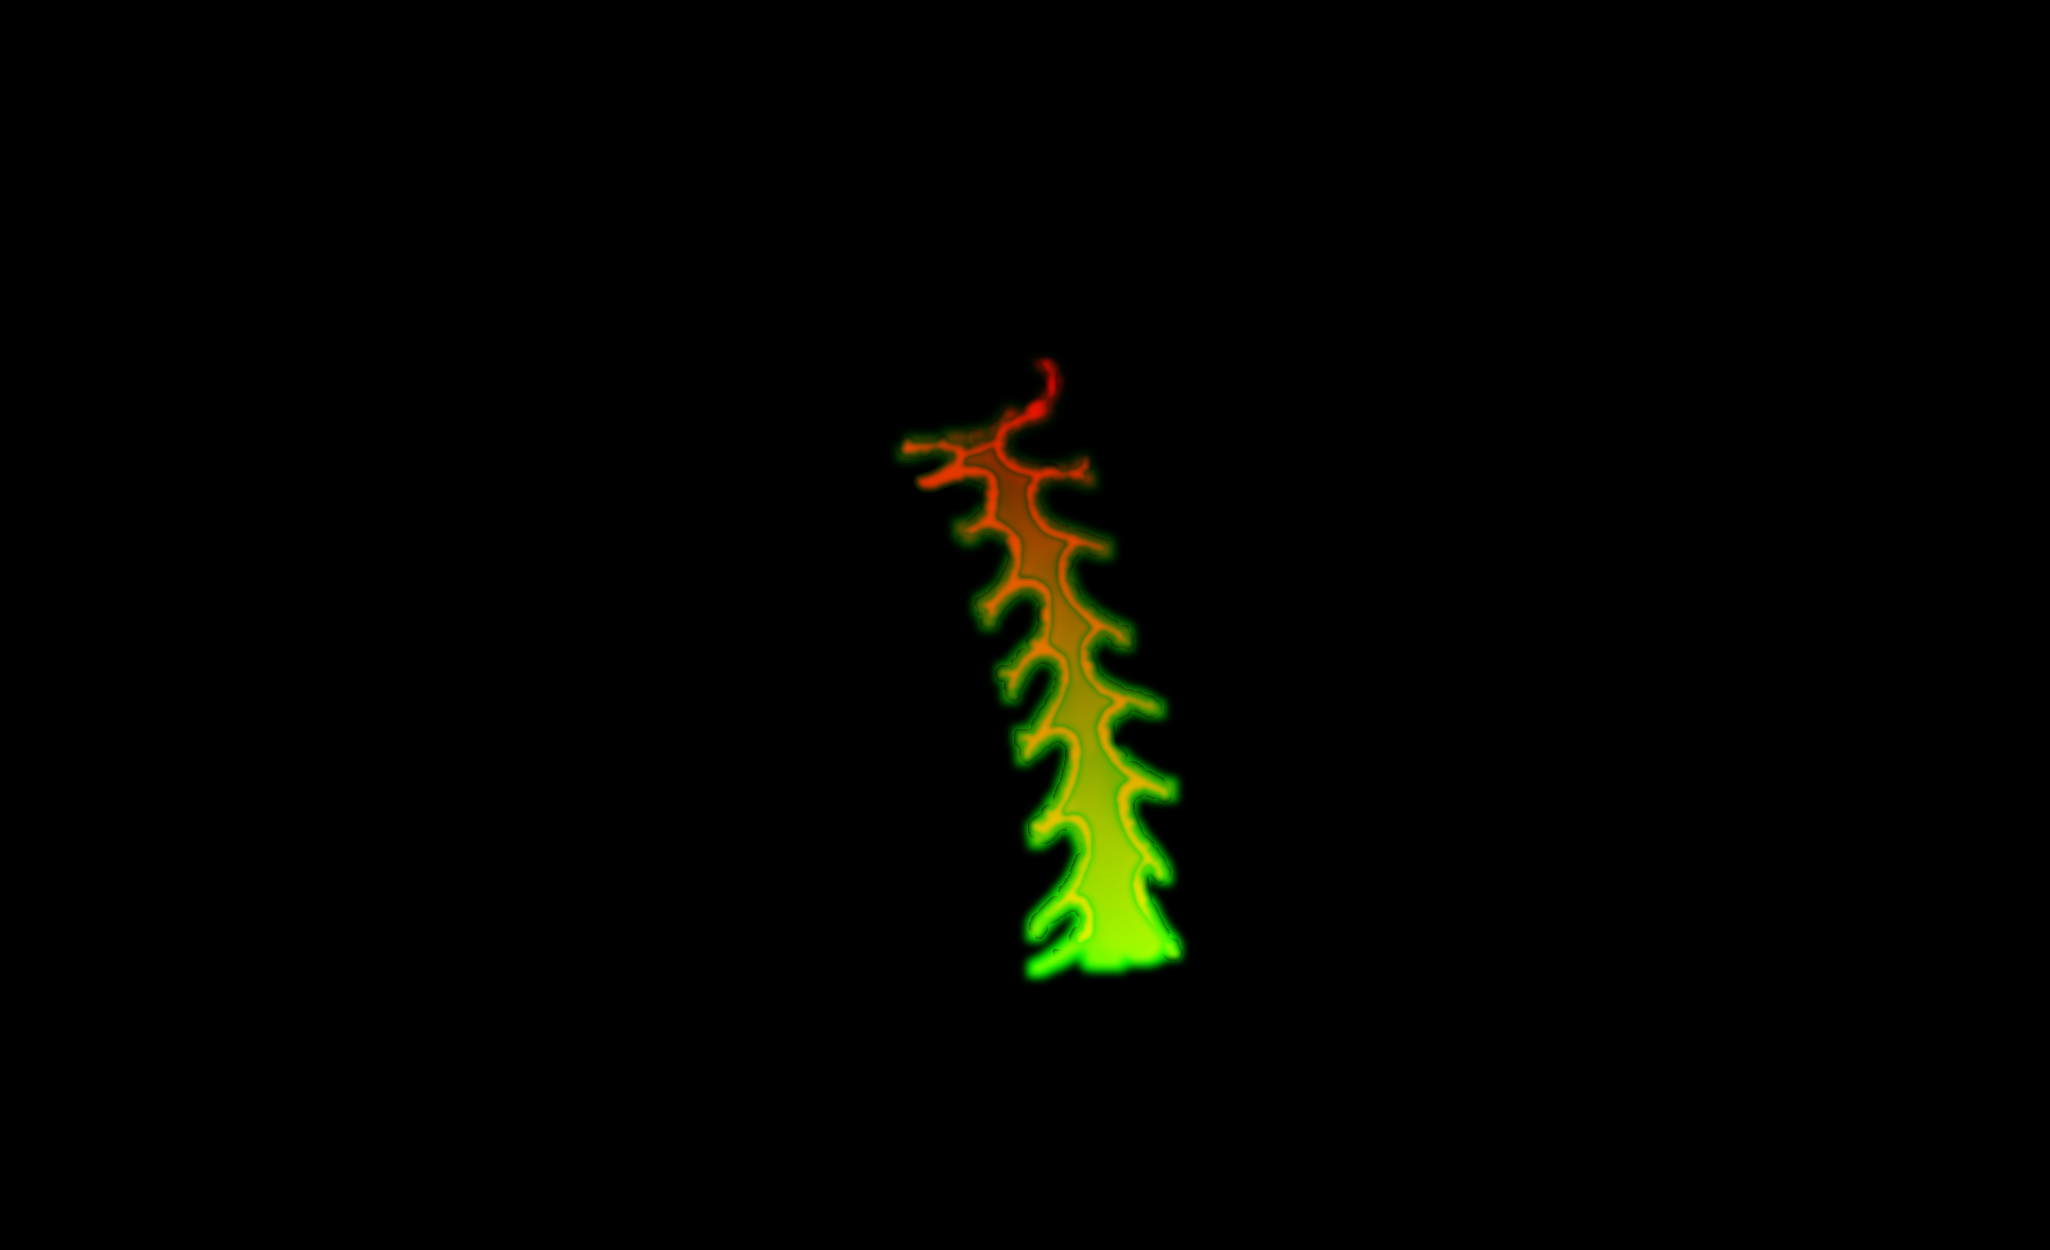
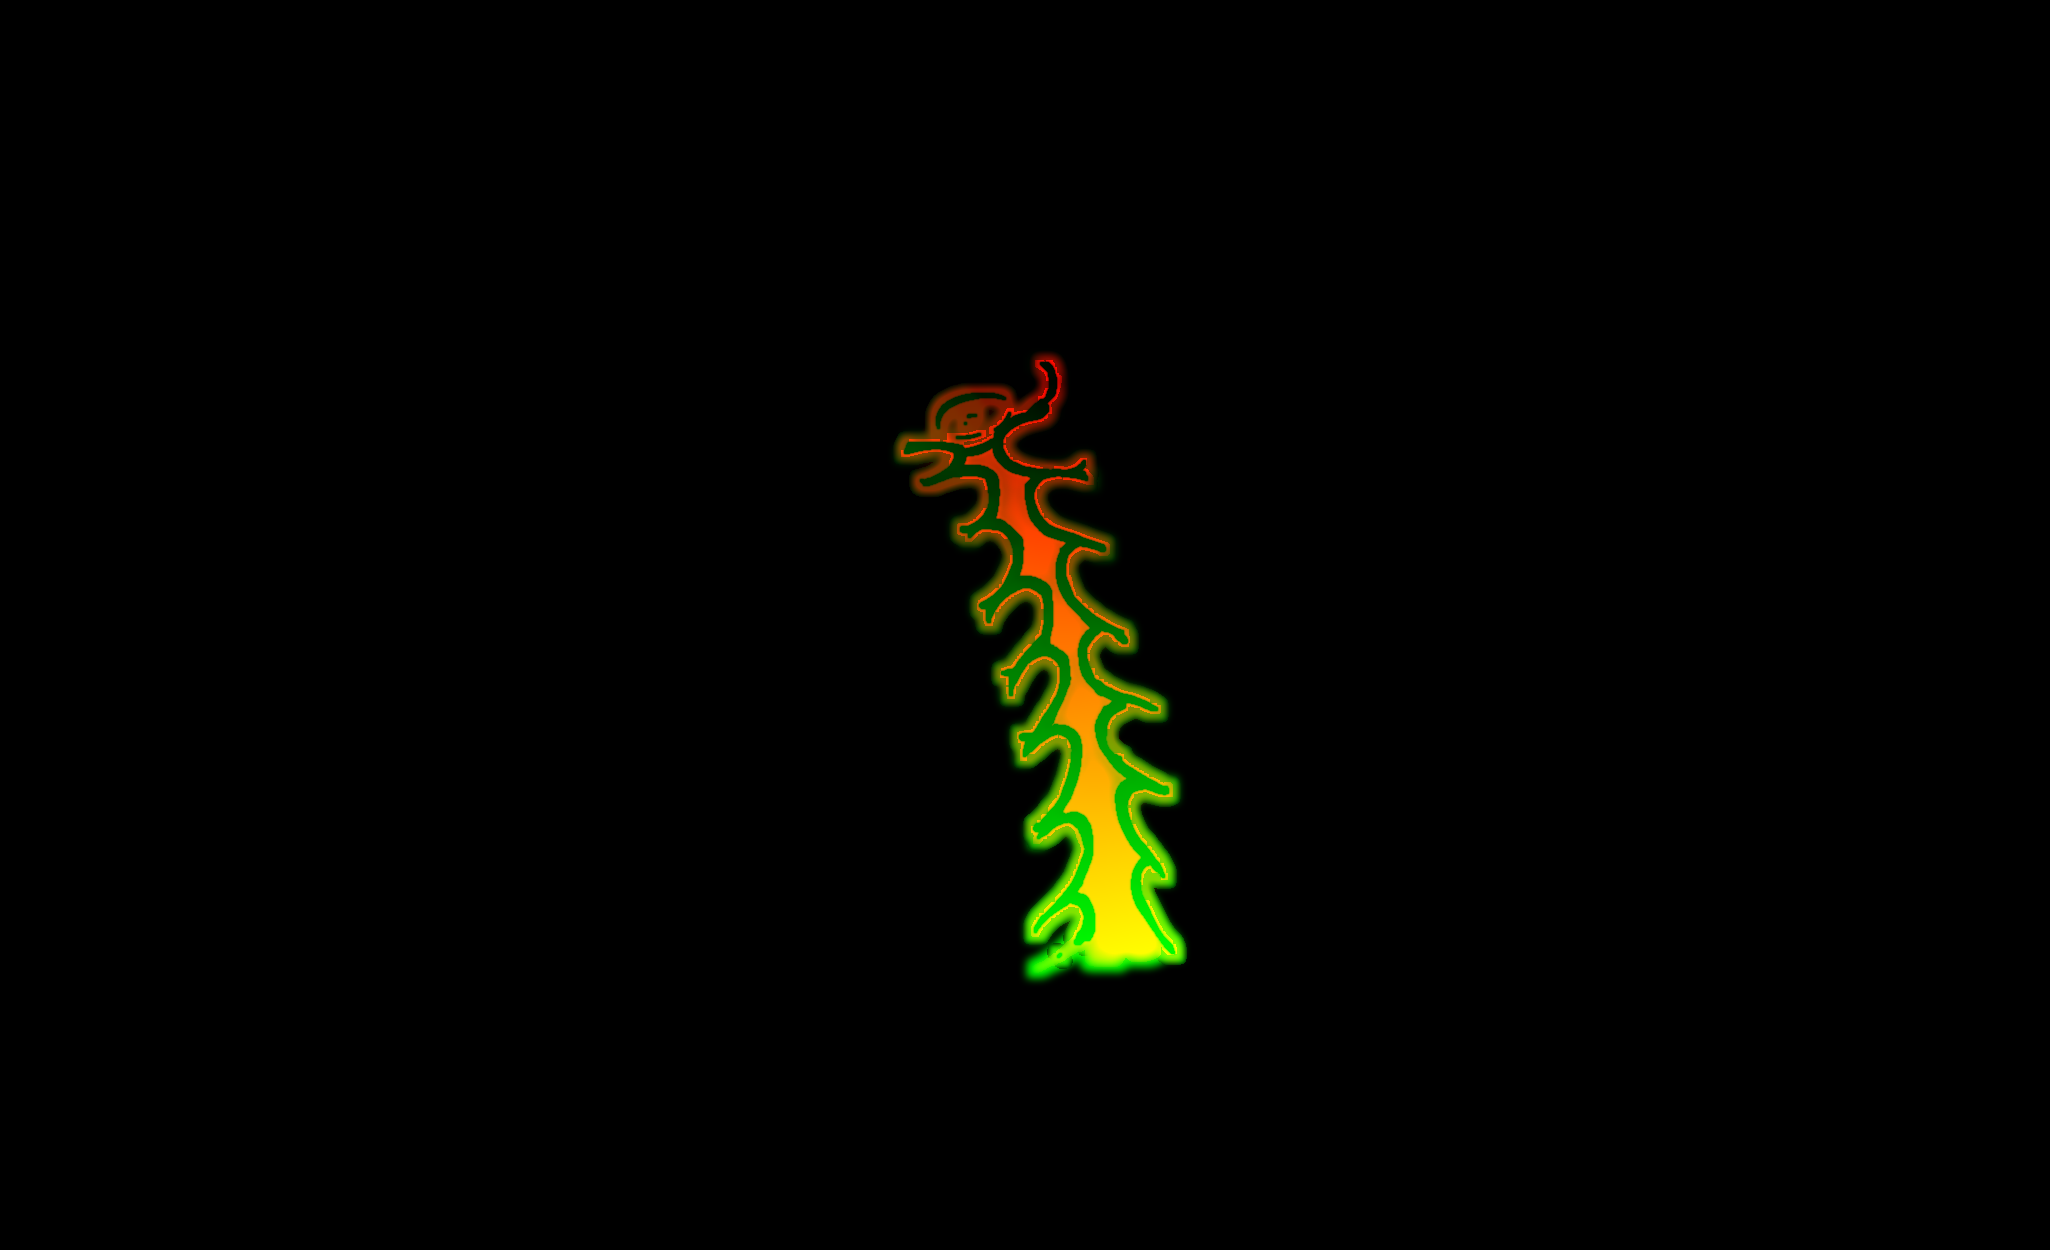
更新小遊戲素材與座標設定 (MiniGameNight3 & Resources/MG)

Changed region(s): [[0.4371, 0.2808, 0.5932, 0.78]]

diff --git a/Scripts/UI/MiniGameNight3.cs b/Scripts/UI/MiniGameNight3.cs
@@ -212,7 +212,7 @@ public partial class MiniGameNight3 : CanvasLayer
     public static float CumJijiEdgePx = 16f;                 // 白色只蓋紅色與黑線的交界處，這是交界兩側各算多寬（畫布像素，越大蓋的範圍越寬）
     public static float CumJijiStrokeTime = 3.6f;           // 白色從頂點沿著左右兩邊的線刷到底花多久（秒）
     public static float CumJijiBlobTime = 1.0f;             // 起點那團不規則橢圓浮現、長大的時間（秒），之後才開始往下流
-    public static Vector2 CumJijiBlobCenterPx = new(712f, 182f);   // 那團的中心（雞雞圖畫布像素）
+    public static Vector2 CumJijiBlobCenterPx = new(697f, 187f);   // 那團的中心（雞雞圖畫布像素）
     public static float CumJijiBlobRotDeg = 35f;            // 起點那團橢圓的旋轉角度（度，正＝逆時針歪，跟九宮格同方向；負＝順時針）
     public static Vector2 CumJijiBlobSizePx = new(62f, 26f);       // 那團的半徑 x／y
     public static float CumJijiBrushSoft = 0.1f;            // 筆刷前緣的柔和程度（越大尾巴越長越淡）
